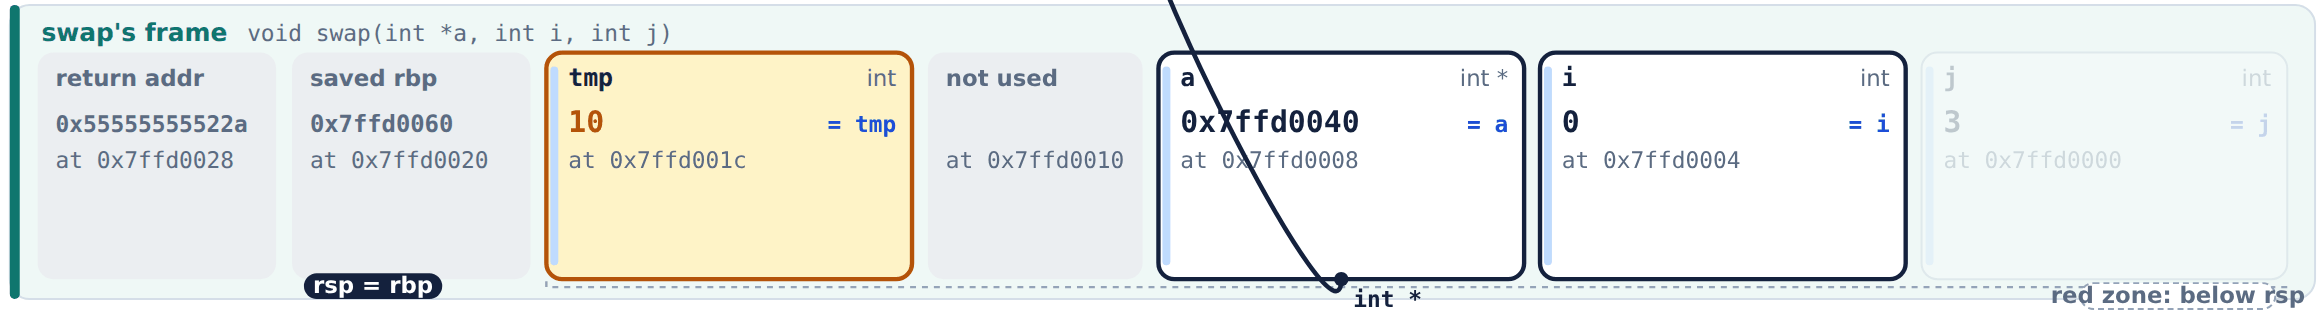
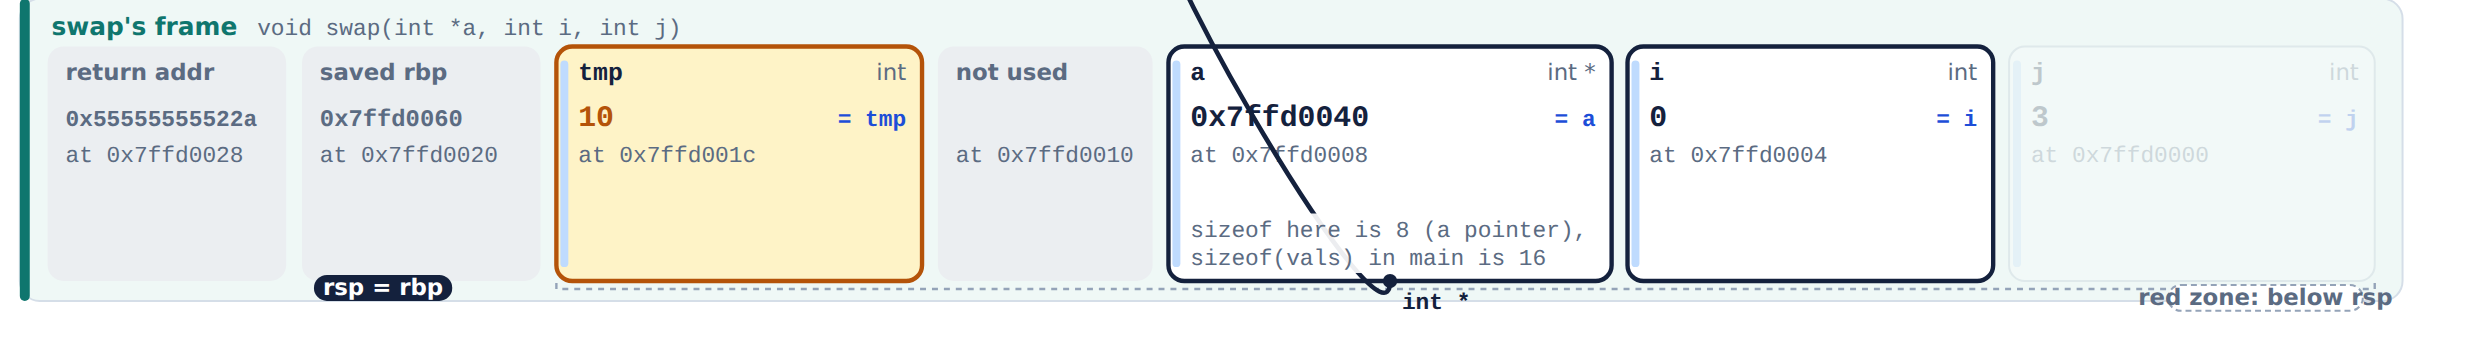
Array decay
When an array is used as a value (passed to a function, put in a pointer,
used in arithmetic, printed with %p; not in sizeof, &arr or arr[i]), the
viewer says it decays:

- the code pane tags that line "decays to &arr[0]" (hover for why);
- when the line runs, the array's box gets the same tag, and line in words
  says so;
- a pointer box that points into an array (or one past its end) notes
  "sizeof here is 8 (a pointer), sizeof(arr) in main is 32", with the real
  sizes. Its box is wider and the stack boxes a little taller in traces that
  have one; the note is drawn over the pointer's own arrow. The memory
  view's tooltip has it too.

tests/decay.c: an int array passed to a function, int *p = arr;,
p = arr + 1; and printf("%p", (void *)arr).

Existing traces that pass arrays around (toy_rec, toy_swap, toy_walk,
remove_element) now show these tags and notes; every other trace renders
the same as before. Docs: the four screenshots of those traces and the help
window are taken again.

Claude-Session: https://claude.ai/code/session_01C1ztRmbX8AqKgUtKqC74bf

Changed region(s): [[0.0, 0.0, 1.0, 0.9394], [0.1241, 0.1818, 0.1862, 0.2727], [0.931, 0.3333, 0.9621, 0.3636]]

diff --git a/node_cards_viewer.html b/node_cards_viewer.html
@@ -241,6 +241,7 @@ button.icon{width:30px;padding:4px 0;font-weight:700;border-radius:50%}
 .mr{width:100%;margin-top:10px;font-size:12.5px}
 .cl{cursor:pointer}
 .cl.fnfl{animation:fnfl 2s ease-out}
+.cl .dk{flex:0 0 auto;align-self:center;margin-left:10px;font:600 10.5px/15px var(--sans);color:var(--ink);background:var(--panel);border:1px solid var(--border);border-radius:999px;padding:0 7px;cursor:help}
 @keyframes fnfl{0%,45%{background:#DBEAFE;box-shadow:inset 3px 0 0 var(--reach)}}
 #pic [data-fn]{cursor:pointer}
 #pic [data-fn]:hover{text-decoration:underline}
@@ -401,6 +402,7 @@ button.icon{width:30px;padding:4px 0;font-weight:700;border-radius:50%}
   <div class="hrow"><span class="sw line"></span><span>The line that just ran</span></div>
   <div class="hrow"><span class="sw line nx"></span><span>The line that runs next</span></div>
   <div class="hrow"><span class="sw txt" style="border-bottom:1px dotted #1D4ED8;border-radius:0;font-weight:500">head</span><span>Hover to follow it. Click a line to jump to where it runs (Shift: back)</span></div>
+  <div class="hrow" style="grid-template-columns:1fr;gap:3px;padding:5px 0"><span style="justify-self:start;font:600 10.5px/15px var(--sans);color:var(--ink);background:var(--panel);border:1px solid var(--border);border-radius:999px;padding:0 7px">decays to &amp;arr[0]</span><span>On a line, and on the array's box when that line runs: the array is used as a value (passed to a function, put in a pointer, in arithmetic, printed with %p), so it turns into a pointer to its first element. A pointer into an array says <b>sizeof here is 8 (a pointer), sizeof(arr) in main is 32</b></span></div>
   <h3>Line in words</h3>
   <div class="hrow"><span class="sw" style="background:#F8FAFC;border:1px solid #D5DEE8;border-left:4px solid #7C8BA1"></span><span>What the line that just ran did, in plain words, with the real values. Turn it off in View</span></div>
   <h3>Assembly</h3>
@@ -1210,6 +1212,42 @@ function viewBase(u,v,w){                                        /* u is the arr
   const off=u.value-v.addr, span=v.kind==="array"?Math.floor(v.size/w)*w:v.size;
   return off>=0&&off<=span&&off%w===0?off/w:null;
 }
+/* ---------- array decay: an array used as a value turns into a pointer to its first element, &arr[0] ---------- */
+let ARRN=null, DKC=null;
+function arrNames(){                                             /* function -> name -> the array variable it names there (globals: in every function that doesn't hide them) */
+  if(ARRN&&ARRN.t===TRACE) return ARRN; const m=new Map(), G=new Map(), other=new Map();
+  TRACE.steps.forEach(s=>s.frames.forEach(f=>f.vars.forEach(v=>{
+    const arr=v.kind==="other"&&!!dimsOf(v.type), M=f.globals?G:arr?(m.get(f.func)||m.set(f.func,new Map()).get(f.func)):(other.get(f.func)||other.set(f.func,new Set()).get(f.func));
+    if(!arr){ if(!f.globals) M.add(v.name); return; }
+    if(!M.has(v.name)) M.set(v.name,{name:v.name,type:v.type,size:v.size,fn:f.globals?null:f.func}); })));
+  return ARRN={t:TRACE,m,G,other}; }
+function decaySites(l){                                          /* the arrays that decay on line l: [{name, at, A}] */
+  if(!SRC||!TRACE) return [];
+  if(!DKC||DKC.src!==SRC||DKC.t!==TRACE) DKC={src:SRC,t:TRACE,m:new Map()};
+  if(DKC.m.has(l)) return DKC.m.get(l);
+  if(!FNL) FNL=fnOfLines();
+  const fn=FNL[l-1], N=arrNames(), code=codeAt(l), out=[];
+  if(fn){ const own=N.m.get(fn)||new Map(), hid=N.other.get(fn)||new Set(), names=new Map(own);
+    N.G.forEach((A,k)=>{ if(!names.has(k)&&!hid.has(k)) names.set(k,A); });
+    names.forEach((A,name)=>{ for(const m of code.matchAll(new RegExp(`(?<![\\w.])${name}\\b`,"g"))){
+      const pre=code.slice(0,m.index), post=code.slice(m.index+name.length);
+      if(/(?:->|\.)\s*$/.test(pre)) continue;                    /* x.arr, p->arr: a field, not this array */
+      if(/(?:^|[^&])&\s*$/.test(pre)) continue;                  /* &arr: the whole array's address, no decay */
+      if(/\b(?:sizeof|_Alignof|typeof|__typeof__)\s*\(?\s*$/.test(pre)) continue;   /* sizeof(arr): the whole array */
+      if(/^\s*[\[(]/.test(post)) continue;                      /* arr[i]: indexing; int arr[8]: its declaration */
+      if(!out.some(x=>x.name===name)) out.push({name,at:m.index,A}); } }); }
+  DKC.m.set(l,out); return out; }
+const decayTip=(x,fn)=>{ const A=x.A, el=elemOf(A.type);
+  return `${x.name} is an array (${A.type}), but here it's used as a value, so C turns it into a pointer to its first element: &${x.name}[0], ${/^[aeiou]/i.test(el)?"an":"a"} ${el} *.\n`+
+    `sizeof(${x.name}) is ${A.size}${A.fn?` in ${A.fn}`:""}, but that pointer is only 8 bytes: a function that gets it can't tell how long the array is.`; };
+function decayNote(s,v){                                         /* a pointer into a stack (or global) array: "sizeof here is 8 (a pointer)", "sizeof(arr) in main is 32" */
+  if(v.kind!=="ptr"||v.init===false||!v.value) return null;
+  const T=bare(v.target);
+  for(const f of s.frames) for(const A of f.vars){
+    if(A===v||A.kind!=="other"||!A.addr||!dimsOf(A.type)||bare(elemOf(A.type))!==T) continue;
+    if(v.value<A.addr||v.value>A.addr+A.size) continue;
+    return {A,fn:f.globals?null:f.func,l1:`sizeof here is ${v.size||8} (a pointer),`,l2:`sizeof(${A.name})${f.globals?"":` in ${f.func}`} is ${A.size}`}; }
+  return null; }
 /* ---------- index expressions: a[n-1-i], a[(i+2) % n], a[2*i], a[a[i]], bag->data[i] ---------- */
 function memRead(st,a,w){                                        /* w bytes at address a on step st: from a variable or a live heap block */
   for(const f of st.frames) for(const v of f.vars) if(v.addr&&v.bytes&&a>=v.addr&&a+w<=v.addr+v.size){ const b=hx(v.bytes).slice(a-v.addr,a-v.addr+w); if(b.length===w) return b; }
@@ -1520,9 +1558,11 @@ function arrPrep(){                                              /* one box widt
       FL(v).forEach(g=>{ if(isArrF(g)) one(s,f,fieldArr(v,g),f.func+"|"+v.name+"|"+g.name); }); }));   /* local.buf */
     s.heap.forEach(n=>{ if(n.kind!=="array"&&n.fields&&!n.freed) FL(n).forEach(g=>{ if(isArrF(g)) one(s,null,fieldArr(n,g),"h"+n.addr+"|"+g.name); }); });
     s.heap.forEach(n=>{ if(n.kind==="array"){ heapArr=true; one(s,null,n,"h"+n.addr+"|"+n.type); } }); });
+  const dk=new Map();                                             /* pointers into an array: how wide their sizeof note is */
+  TRACE.steps.forEach(s=>s.frames.forEach(f=>f.vars.forEach(v=>{ const d=decayNote(s,v); if(d){ const k=f.func+"|"+v.name+"|"+v.type; dk.set(k,Math.max(dk.get(k)||0,d.l1.length,d.l2.length)); } })));
   const RH=32+rows*14, AFH=66+Math.max(1,rows)*14;                /* a 2D array's rows: slots, then room for ↑j. AFH: an array field: its name, [i], slots, ↑i */
   big.forEach(v=>{ sh=Math.max(sh,44+FL(v).reduce((t,g)=>t+(isArrF(g)?AFH:16),0)+20); });
-  return ARRP={t:TRACE,src:SRC,simple,cw,rows,heapArr,hdr,RH,AFH,sh,ext:(hdr?16:0)+(gR-1)*RH+(nf-1)*16};   /* ext: how much taller the stack boxes get */
+  return ARRP={t:TRACE,src:SRC,simple,cw,rows,heapArr,hdr,RH,AFH,sh,dk,ext:(hdr?16:0)+(gR-1)*RH+(nf-1)*16};   /* ext: how much taller the stack boxes get */
 }
 function sysSlot(f,a,fb,lo){                                     /* return addr, saved rbp, stack canary, or not used */
   if(a===f.rbp+8) return {name:"return addr",tip:"where this function returns to"};
@@ -2067,6 +2107,9 @@ function lineWords(i){
     else if(/^}/.test(code)) say(`Goes to line ${S.line}.`);
     else { const ch=[...touched(i).ch].filter(k=>k.startsWith("v:")||/^h:\d+:/.test(k));
       if(ch.length) say(ch.slice(0,4).map(k=>`${kc(boxName(S,k,fn))} is now ${kc(boxVal(S,k))}`).join(", ")+"."); } }
+  /* an array used as a value: it decays */
+  if(!RA.ret) decaySites(RA.line).forEach(x=>{ const v=fr.vars.find(u=>u.name===x.name&&u.kind==="other")||(P.frames.find(f=>f.globals)||{vars:[]}).vars.find(u=>u.name===x.name);
+    say(`${kc(x.name)} decays to ${kc("&"+x.name+"[0]")}: used as a value, an array becomes a pointer to its first element${v?`, ${kc(show(v.addr))}`:""}. sizeof(${x.name}) is ${x.A.size}, but the pointer is 8 bytes.`); });
   /* what a library call did inside, as gdb's watchpoints saw it */
   libWords(i).forEach(say);
   /* what it left behind */
@@ -2107,7 +2150,7 @@ function renderCards(s){
   const TT=touched(at), CH=TT.ch, R=reachable(s), inner=s.frames[0], RC=reach(s), CI=callInfo(s), RET=retInfo(s);
   const AP=arrPrep(), RAc=ranAt(at), PST=at>0?TRACE.steps[at-1]:null, varAt={};                 /* AP.rows: lines of ↑i marks an array needs */
   s.frames.forEach(f=>f.vars.forEach(v=>{ if(v.addr) varAt[v.addr]=v; }));
-  const LL=listLines(s), LLN=LL.flatMap(l=>[l,...(l.notes||[]).map(note=>({note}))]), DC=dllCheck(s), SLOTW=184, SLOTH=Math.max(86+AP.rows*14+AP.ext,AP.sh), CW=218, STEP=236, FH=36, DIM=' opacity="0.22"';
+  const LL=listLines(s), LLN=LL.flatMap(l=>[l,...(l.notes||[]).map(note=>({note}))]), DC=dllCheck(s), SLOTW=184, SLOTH=Math.max(86+AP.rows*14+AP.ext,AP.sh,AP.dk.size?118:0), CW=218, STEP=236, FH=36, DIM=' opacity="0.22"';
   const HOPC=["#BFDBFE","#93C5FD","#3B82F6","#1D4ED8"], hopc=d=>HOPC[Math.min(d,3)];          /* own, 1, 2, 3+ hops away */
   const EX=e=>` data-ex="${esc(e)}"`;                                                        /* hover it: its hops light up */
   const isNew=f=>at>0&&f===inner&&TRACE.steps[at-1].frames.length<s.frames.length;
@@ -2260,6 +2303,7 @@ function renderCards(s){
     const ab={x0:bx+g.x0,cw:g.cw,n,shown:g.shown,moreL:bx+g.moreL,moreW:g.moreW,endL:bx+g.endL,endW:g.endW,ew:A.w};   /* the same, on the page */
     const H=A.chr||v.cstrs?16:0, CHh=A.sf?24+(A.sf.length-1)*16:24;   /* a string: its text on a line above the slots */
     const body=arrBody(v,A,g,f,whoA,ab,by+37+H,by+37+H+CHh+15);
+    const dks=RAc&&RAc.fr&&!RAc.ret&&RAc.fr.vars.some(u=>u.addr===v.addr&&u.name===v.name)?decaySites(RAc.line).find(x=>x.name===v.name):null;   /* this line decays it */
     let head="";
     if(A.chr){ const b=hx(v.bytes).map(x=>parseInt(x,16)), z=b.indexOf(0), upto=z<0?b.length:z;
       const ok=!unset&&(!v.eset||Array.from({length:Math.min(upto+1,n)},(_,k)=>k).every(k=>v.eset[k])), q=JSON.stringify(String.fromCharCode(...b.slice(0,upto)));
@@ -2280,13 +2324,14 @@ function renderCards(s){
       `<text x="${bx+sl.w-8}" y="${by+17}" font-size="10" text-anchor="end" fill="${MUT}">${esc(v.type)}</text>`+head+body.h+
       (out?`<text x="${bx+11}" y="${by+SLOTH-8}" font-size="10" font-style="italic" fill="${MUT}">not reachable from here</text>`
          :rc&&rc.v!==v.name?`<text x="${bx+11}" y="${by+SLOTH-8}" font-size="11" font-weight="700" fill="${REACH}" ${MONO}${EX(rc.v)}>= ${esc(rc.v)}</text>`:"")+
-      (body.empty?`<text x="${bx+sl.w-8}" y="${by+SLOTH-8}" font-size="11.5" font-style="italic" text-anchor="end" fill="${MUT}">${esc(body.empty)}</text>`   /* lo > hi: nothing left */
+      (dks?`<g data-tip="${esc(decayTip(dks))}"><rect x="${bx+sl.w-8-(6.9*(13+v.name.length)+14)}" y="${by+SLOTH-21}" width="${6.9*(13+v.name.length)+14}" height="16" rx="8" fill="${PNL}" stroke="${BORDER}"/><text x="${bx+sl.w-8-(6.9*(13+v.name.length)+14)/2}" y="${by+SLOTH-9}" font-size="11.5" font-weight="700" text-anchor="middle" fill="${INK}" ${MONO}>decays to &amp;${esc(v.name)}[0]</text></g>`   /* the line that ran used it as a value */
+      :body.empty?`<text x="${bx+sl.w-8}" y="${by+SLOTH-8}" font-size="11.5" font-style="italic" text-anchor="end" fill="${MUT}">${esc(body.empty)}</text>`   /* lo > hi: nothing left */
         :v.decl?`<text class="hov" x="${bx+sl.w-8}" y="${by+SLOTH-8}" font-size="10" text-anchor="end" fill="${MUT}" ${MONO}>line ${v.decl}</text>`:"")+`</g>`;
   };
   [...s.frames].reverse().forEach(f=>{                           /* address order: main's frame on the left */
     const vars=[...f.vars].sort((a,b)=>(b.addr||0)-(a.addr||0));
     SFN=f.func;
-    let slots=vars.map(v=>{ const A=arrSlots(v); if(!A) return v.fields&&v.kind==="other"?{v,addr:v.addr||0,w:structW(v),st:true}:{v,addr:v.addr||0,w:SLOTW};   /* an array gets one box per element, a struct one line per field */
+    let slots=vars.map(v=>{ const A=arrSlots(v); if(!A) return v.fields&&v.kind==="other"?{v,addr:v.addr||0,w:structW(v),st:true}:{v,addr:v.addr||0,w:Math.max(SLOTW,Math.ceil(22+6.9*(AP.dk.get(f.func+"|"+v.name+"|"+v.type)||0)))};   /* a pointer into an array: room for its sizeof note */   /* an array gets one box per element, a struct one line per field */
       if(A.grid){ const cw=AP.cw.get(f.func+"|"+v.name+"|"+v.type)||30, RG=A.grid.RS.map(RA=>arrGeo(RA,cw,"","",0)), gx=11+44+30;   /* row marks, [i], then the cells */
         const head=11+7.6*v.name.length+14+6.9*v.type.length+8+6.9*("at "+show(v.addr)).length+10;
         return {v,addr:v.addr||0,w:Math.ceil(Math.max(SLOTW,head,gx-11+Math.max(...RG.map(r=>r.endL+r.endW))+8)),A,g:{cw,RG,gx}}; }
@@ -2350,7 +2395,11 @@ function renderCards(s){
         (ci?`<text x="${bx+11}" y="${by+76}" font-size="10" font-weight="700" fill="${AMB}" ${MONO}>${esc(ci.text)}</text>`                     /* the call: where this came from */
            :out?`<text x="${bx+11}" y="${by+76}" font-size="10" font-style="italic" fill="${MUT}">not reachable from here</text>`
            :lit?lit:(rc?`<text class="hov" x="${bx+11}" y="${by+76}" font-size="10" fill="${MUT}" ${MONO}${EX(rc.v)}>change: <tspan fill="${REACH}" font-weight="700">${esc(rc.v)} = …;</tspan></text>`:"")+
-            (v.decl?`<text class="hov" x="${bx+SLOTW2-8}" y="${by+76}" font-size="10" text-anchor="end" fill="${MUT}" ${MONO}>line ${v.decl}</text>`:""))+`</g>`;
+            (v.decl?`<text class="hov" x="${bx+SLOTW2-8}" y="${by+76}" font-size="10" text-anchor="end" fill="${MUT}" ${MONO}>line ${v.decl}</text>`:""))+
+        `</g>`;
+      const dn=decayNote(s,v);                                     /* sizeof here is 8 (a pointer), sizeof(arr) in main is 32: over the arrows, so its own arrow doesn't cross it out */
+      if(dn) labels+=`<g data-tip="${esc(`${v.name} points into ${dn.A.name}, an array${dn.fn?` of ${dn.fn}`:""}.\n${dn.l1} ${dn.l2}: sizeof(${v.name}) is the pointer's own size, not the array's, so pass its length along`)}"${F?DIM:""}><rect x="${bx+8}" y="${by+84}" width="${6.9*Math.max(dn.l1.length,dn.l2.length)+6}" height="30" rx="3" fill="${C?AMBG:"#fff"}" opacity="0.92"/>`+
+        `<text x="${bx+11}" y="${by+96}" font-size="11.5" fill="${MUT}" ${MONO}>${esc(dn.l1)}</text><text x="${bx+11}" y="${by+110}" font-size="11.5" fill="${MUT}" ${MONO}>${esc(dn.l2)}</text></g>`;
     });
     if(SP){                                                        /* pills under the slots, and a bracket under the red zone */
       spMarks.forEach(k=>k.m.forEach(t=>{ const pw=t.length*6.4+12;
@@ -2926,6 +2975,7 @@ function memModel(s){
           r.nm.push(`${esc(v.name)}<small>${esc(v.type.replace(/struct /g,""))}</small>`);
           r.vl.push(junk?{name:v.name,txt:"??",cls:"junk"}:v.kind==="ptr"?{name:v.name,...ptrTxt(raw)}:isFn(v)?{name:v.name,txt:fnTxt(v),fn:v.value&&v.fn}:{name:v.name,txt:v.kind==="int"?String(v.value):"—"});
           if(!junk&&isFn(v)) r.tip=fnTip(v).trim();
+          const dn=!junk&&decayNote(s,v); if(dn) r.tip=((r.tip||"")+`\n${dn.l1} ${dn.l2}`).trim();
           if(junk) r.tip="not set yet: these are leftover bytes";
           const rc=RC["v:"+v.addr]; if(rc) r.tip=((r.tip||"")+reachTip(rc,who)).trim();
           r.tip=(`${v.name}: ${f.globals?"a global":`${v.arg?"parameter":"local"} of ${f.func}`}${v.decl?`, line ${v.decl}`:""}\n`+(r.tip||"")).trim();
@@ -3179,7 +3229,7 @@ function render(){
   if(SRC){
     if(!FNL) FNL=fnOfLines();
     const bugL=new Set(BUGS.map(b=>b.line));
-    $("code").innerHTML=SRC.map((l,i)=>`<div class="cl${i+1===ran?" hi":""}${i+1===s.line?" nx":""}${bugL.has(i+1)?" bug":""}" data-l="${i+1}"${bugL.has(i+1)?' title="a bug happens on this line: click to jump there"':""}><span class="ln">${i+1}</span><span class="src">${exLine(l)||" "}</span></div>`).join("");   /* one span, so leading spaces survive */
+    $("code").innerHTML=SRC.map((l,i)=>`<div class="cl${i+1===ran?" hi":""}${i+1===s.line?" nx":""}${bugL.has(i+1)?" bug":""}" data-l="${i+1}"${bugL.has(i+1)?' title="a bug happens on this line: click to jump there"':""}><span class="ln">${i+1}</span><span class="src">${exLine(l)||" "}</span>${decaySites(i+1).map(x=>`<span class="dk" title="${esc(decayTip(x))}">decays to &amp;${esc(x.name)}[0]</span>`).join("")}</div>`).join("");   /* arr used as a value: it decays */   /* one span, so leading spaces survive */
     const pre=$("code"), hi=pre.querySelector(".hi")||pre.querySelector(".nx");
     if(hi) pre.scrollTop=hi.offsetTop-pre.offsetTop-pre.clientHeight/2;                        /* scroll the code only, never the page */
   }

diff --git a/tests/decay.c b/tests/decay.c
@@ -1,0 +1,21 @@
+#include <stdio.h>
+
+int sum(int *a, int n) {
+  printf("in sum\n");
+  int total = 0;
+  for (int i = 0; i < n; i++) {
+    total += a[i];
+  }
+  return total;
+}
+
+int main() {
+  printf("in main\n");
+  int arr[8] = {1, 2, 3, 4, 5, 6, 7, 8};
+  int s = sum(arr, 8);
+  int *p = arr;
+  p = arr + 1;
+  printf("%p\n", (void *)arr);
+  printf("%d %d\n", s, *p);
+  return 0;
+}

diff --git a/docs/FEATURES.md b/docs/FEATURES.md
@@ -295,6 +295,28 @@ Drag the slider, or press **→** until you get there.
 
 - **Try it:** `tests/ring.c`, **step 50** (stack) and **step 34** (heap).
 
+### Array decay
+
+- An array **used as a value** turns into a **pointer to its first element**: `arr` becomes `&arr[0]`. This is called
+  **decay**. It happens when the array is **passed to a function** (`sum(arr, 8)`), **put in a pointer** (`int *p = arr;`),
+  used in **arithmetic** (`arr + 1`) or **printed with `%p`** (`printf("%p", (void *)arr)`).
+  It doesn't happen in `sizeof(arr)`, `&arr` or `arr[i]`.
+- **In the code**, such a line gets a tag **`decays to &arr[0]`** (hover it for why).
+- **On the picture**, when that line runs, the array's box gets the same tag, and **line in words** says
+  *"arr decays to &arr[0]: used as a value, an array becomes a pointer to its first element"*.
+- A **pointer box** that points into an array says how big each one really is:
+  **"sizeof here is 8 (a pointer), sizeof(arr) in main is 32"**, with the real sizes. That's why a function that gets
+  the array can't work out its length: pass the length along.
+
+![sum(arr, 8): the tags in the code, arr's tag, and a's sizeof note](img/decay-call.png)
+
+![p = arr + 1: p points to arr[1]](img/decay-pointer.png)
+
+- **Try it:** `tests/decay.c`, **step 5** (the call), **step 27** (`int *p = arr;`), **step 28** (`p = arr + 1;`),
+  **step 29** (`printf("%p", …)`).
+- **Limits:** only array **variables** (on the stack or global) are tagged, not array fields like `s.buf`.
+  An array that is indexed (`arr[i]`) isn't tagged, though C decays it there too.
+
 ---
 
 ## 5. Linked lists and structs
@@ -873,6 +895,7 @@ a pointer, usually called **`next`**, to the next one.
 | `board.c` | `char board[3][3]`: a char grid on the stack |
 | `child_list.c` | A 2-level list built by hand: 2's child 5 → 6 and 4's child 7 → 8, each in a row under its node |
 | `circular.c` | A circular list of 3 nodes, walked, then cut and freed |
+| `decay.c` | An `int arr[8]` passed to `sum()`, `int *p = arr;`, `p = arr + 1;` and `printf("%p", (void *)arr)`: array decay |
 | `deep_recursion.c` | 13 frames on the stack at once: frames wrap into rows |
 | `dlist.c` | A doubly linked list: build, insert in the middle, delete |
 | `dlist_broken.c` | A doubly linked list with one wrong `prev`: the red arrow and warning |

diff --git a/tests/README.md b/tests/README.md
@@ -38,6 +38,7 @@ Small C programs and their traces, to re-check `node_cards_viewer.html` and `tra
 | klist | kernel style: `struct list_head`, INIT_LIST_HEAD, list_add_tail, list_del, container_of with offsetof, `struct item { int val; struct list_head list; }`, a global LIST_HEAD and one on the stack |
 | bag_typedef | `typedef struct { int *data; int size; } Bag;` with no struct name: the Bag card (it didn't show before) and its data array |
 | fn_pointer | `struct calc { int a; int b; int (*op)(int, int); }`: `c.op = add`, `c.op(c.a, c.b)`, then `c.op = mul`: the field shows `→ add()`, click it to see add in the code; "Calls add through c.op" |
+| decay | `int arr[8]` passed to `sum(int *a, int n)`, then `int *p = arr;`, `p = arr + 1;`, `printf("%p\n", (void *)arr)`: the "decays to &arr[0]" tag on those lines and on arr's box, and "sizeof here is 8 (a pointer), sizeof(arr) in main is 32" on a and p |
 | bit_flags | `struct flags { unsigned on : 1; unsigned level : 3; unsigned mode : 4; }` set field by field on the stack, passed to show(), then a malloc'd copy: each field's value and its byte's 8 bits with its own bits filled; the memory view lists every bit field in the byte |
 | ring | `struct ring { int buf[5]; int n; }` filled in a loop on the stack and malloc'd (and `int seen[20]` for "+4 more"): array fields as slots, `r->buf[2]` |
 | double_free | frees the same block twice (once in a helper, once in main): the "free(0x100) a second time" banner on line 14; glibc aborts |
